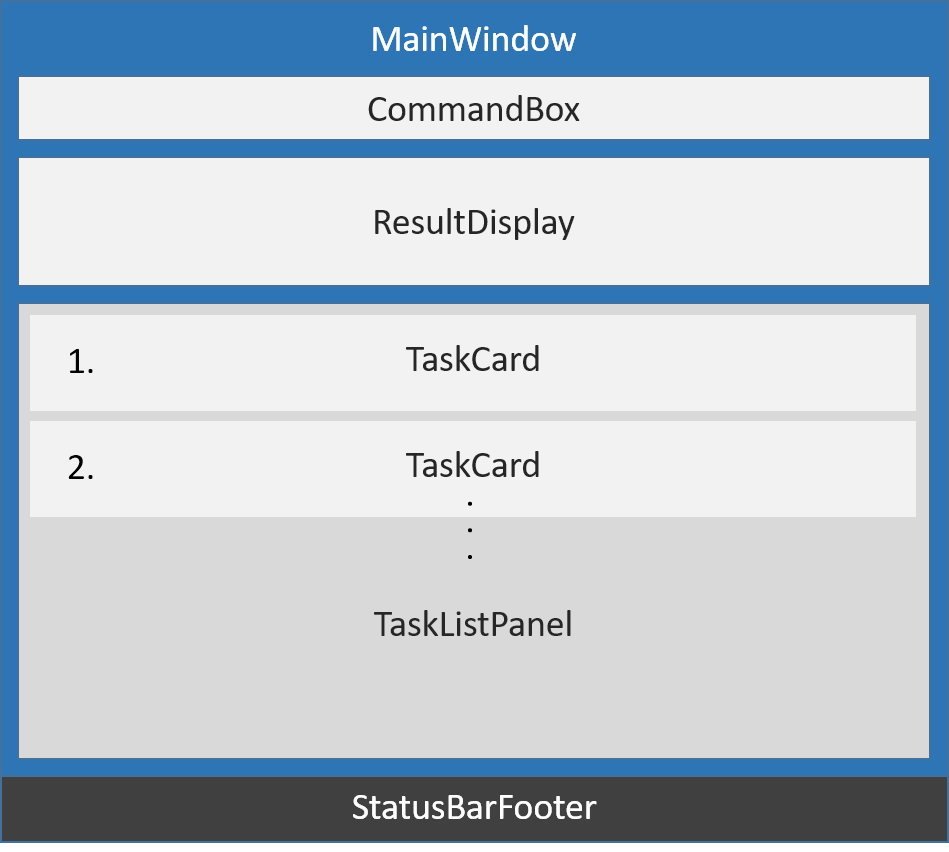
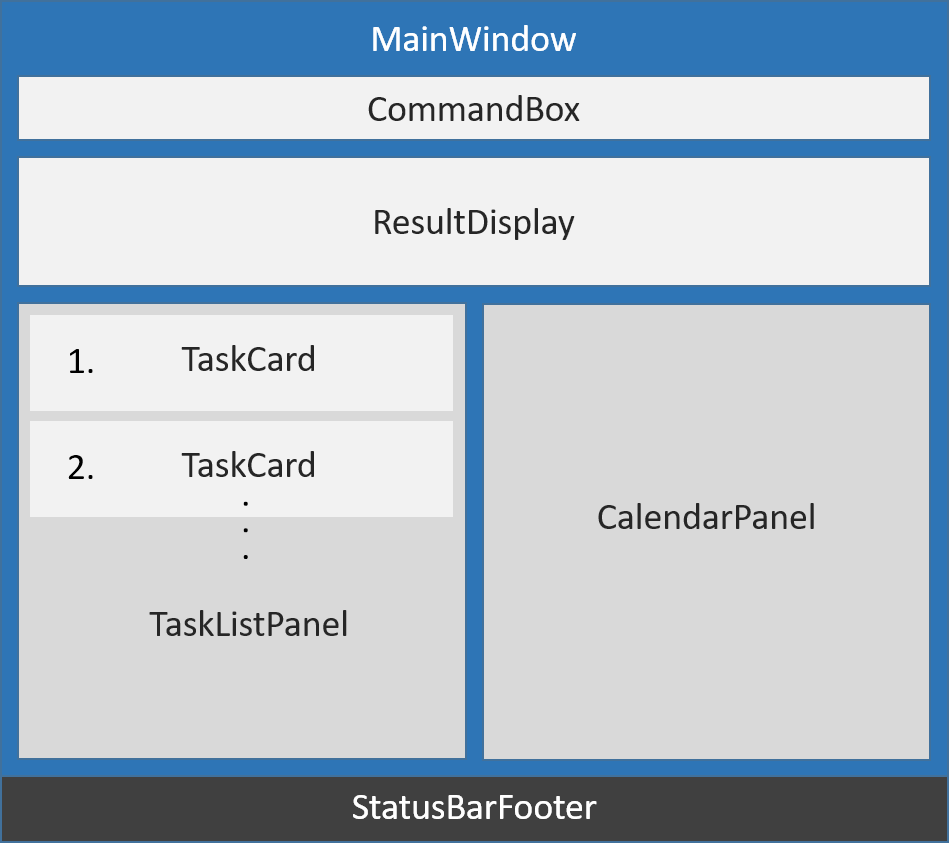
Update UI component in Developer Guide

diff --git a/docs/DeveloperGuide.md b/docs/DeveloperGuide.md
@@ -165,36 +165,42 @@ The next sections give more details of each component.
 
 **API** : [`Ui.java`](../src/main/java/teamfour/tasc/ui/Ui.java)
 
-*Figure 5* above shows the overview of the UI component. It consists of a `MainWindow` that is made up of parts, which includes `CommandBox`, `ResultDisplay`, `TaskListPanel`,
-`StatusBarFooter`, etc. All these, including the `MainWindow`, inherit from the abstract `UiPart` class
+*Figure 5* above shows the overview of the UI component. It consists of a `MainWindow` that is made up of parts, which includes `CommandBox`, `TaskListPanel`,
+`CalendarPanel`, etc. All these, including the `MainWindow`, inherit from the abstract `UiPart` class
 which can be loaded using the `UiPartLoader`.
 
 The **`UI`** component uses JavaFx UI framework. The layout of these UI parts are defined in matching `.fxml` files
- which are in the `src/main/resources/view` folder.<br>
+ which are in the `src/main/resources/view` folder.
  For example, the layout of the [`MainWindow`](../src/main/java/teamfour/tasc/ui/MainWindow.java) is specified in
  [`MainWindow.fxml`](../src/main/resources/view/MainWindow.fxml)
-
-<br>
+<br><br>
 
 The **`UI`** component
 * executes user commands using the **`Logic`** component.
 * binds itself to some data in the **`Model`** so that the UI can auto-update when data in the **`Model`** change.
 * responds to events raised from various parts of the App and updates the UI accordingly.
 
-<img src="images/UiComponentParts.png" width="600"><br>
+<img src="images/UiComponentParts.png" width="480"><br>
 *Figure 6. UI component in the application's interface*
 
-*Figure 6* above shows where each `UiPart` is attached to the `MainWindow`. The `TaskListPanel` class shows the list of tasks, and each task is contained in a `TaskCard` object.
+*Figure 6* above shows where each `UiPart` is attached to the `MainWindow`.
 <br><br>
 
-**`TaskCard` Class:**
+**`TaskListPanel` Class:**
 
- Each `TaskCard` is assigned a unique index in increasing order, which is used in other commands to specify a task, e.g. `delete 3` deletes the third item in the list.
+The `TaskListPanel` shows a list of `TaskCard` object, where each `TaskCard` contains the details of a task shown to the user. 
+The `TaskCard` is also assigned a unique index in increasing order, which is used in other commands to identify a task, e.g. `delete 3` deletes the third item in the list.
+<br><br>
+
+**`CalendarPanel` Class:**
+
+The `CalendarPanel` encapsulates the `Agenda` control from [`JFXtras`](http://jfxtras.org/doc/8.0/jfxtras-agenda/) library. 
+The `CalendarPanel` handles the display and selection of tasks on the calendar, and also handles the switching between *Day* and *Week* view of the calendar.
 <br><br>
 
 **`HelpWindow` Class:**
 
-The `HelpWindow` is a window separate from the `MainWindow`. It shows our product's User Guide using a Web Browser which supports modern HTML and CSS.
+The `HelpWindow` is a window separate from the `MainWindow`. It shows our product's User Guide using a WebBrowser which supports modern HTML and CSS.
 
 <br>
 
